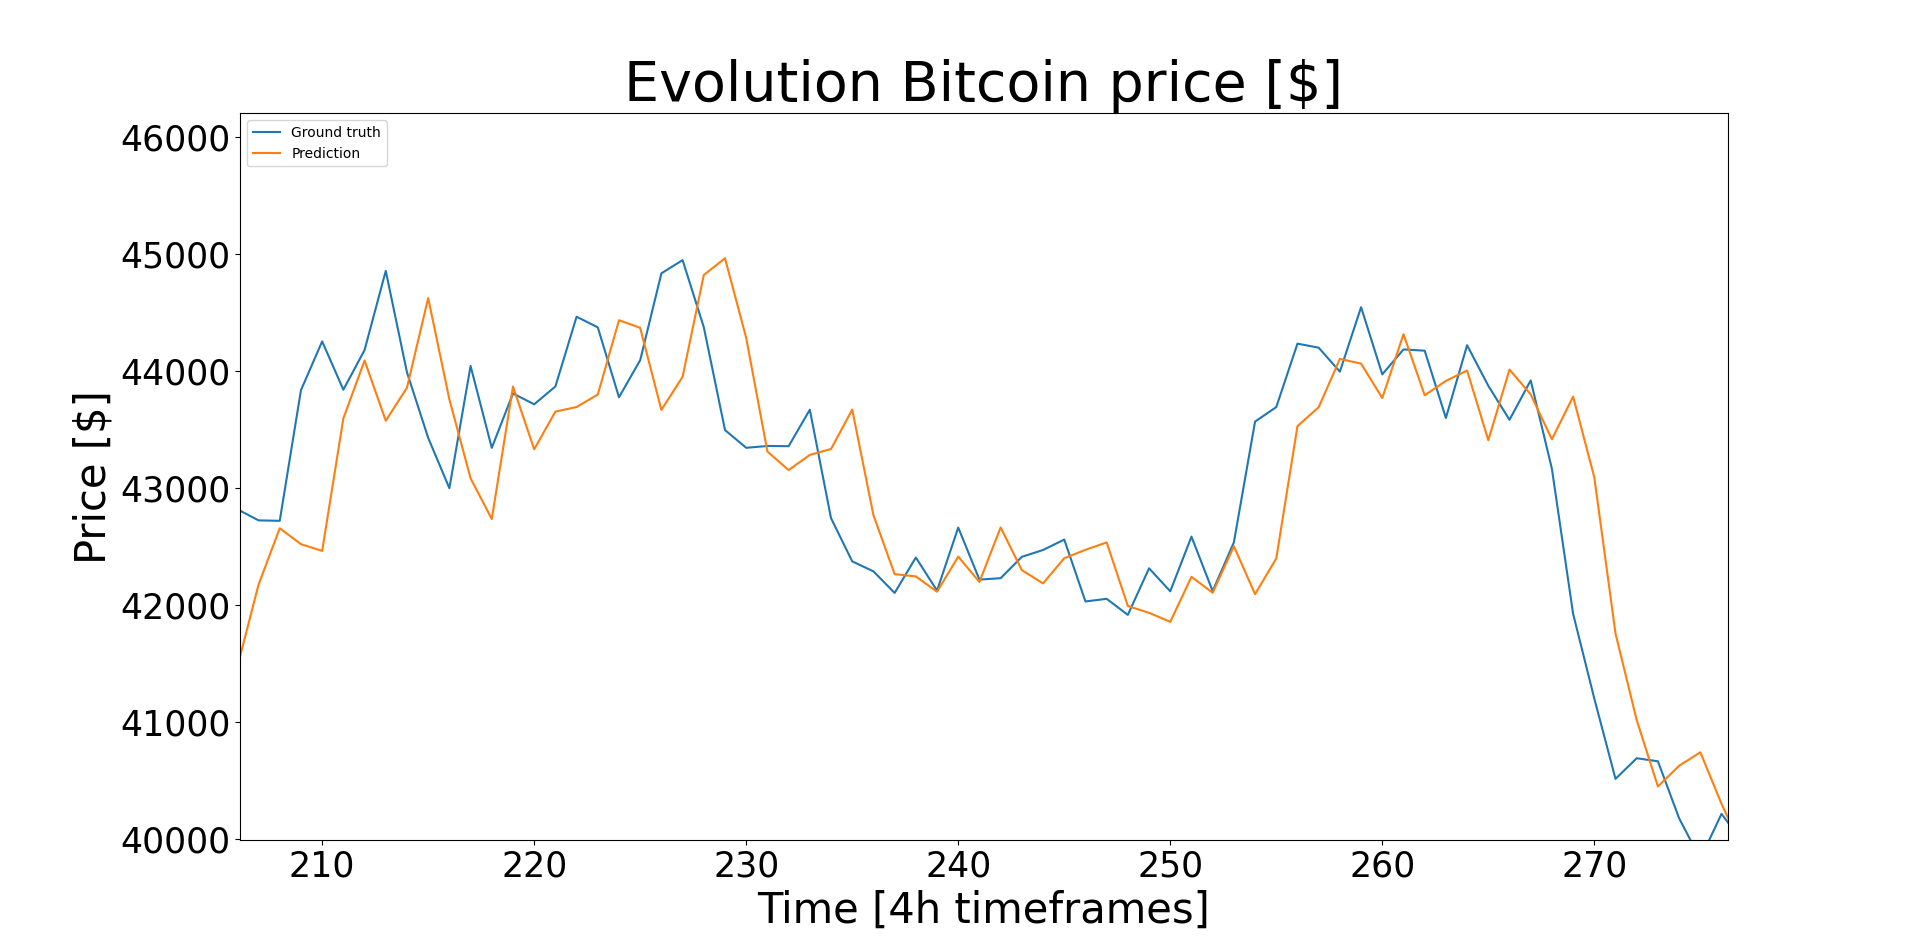
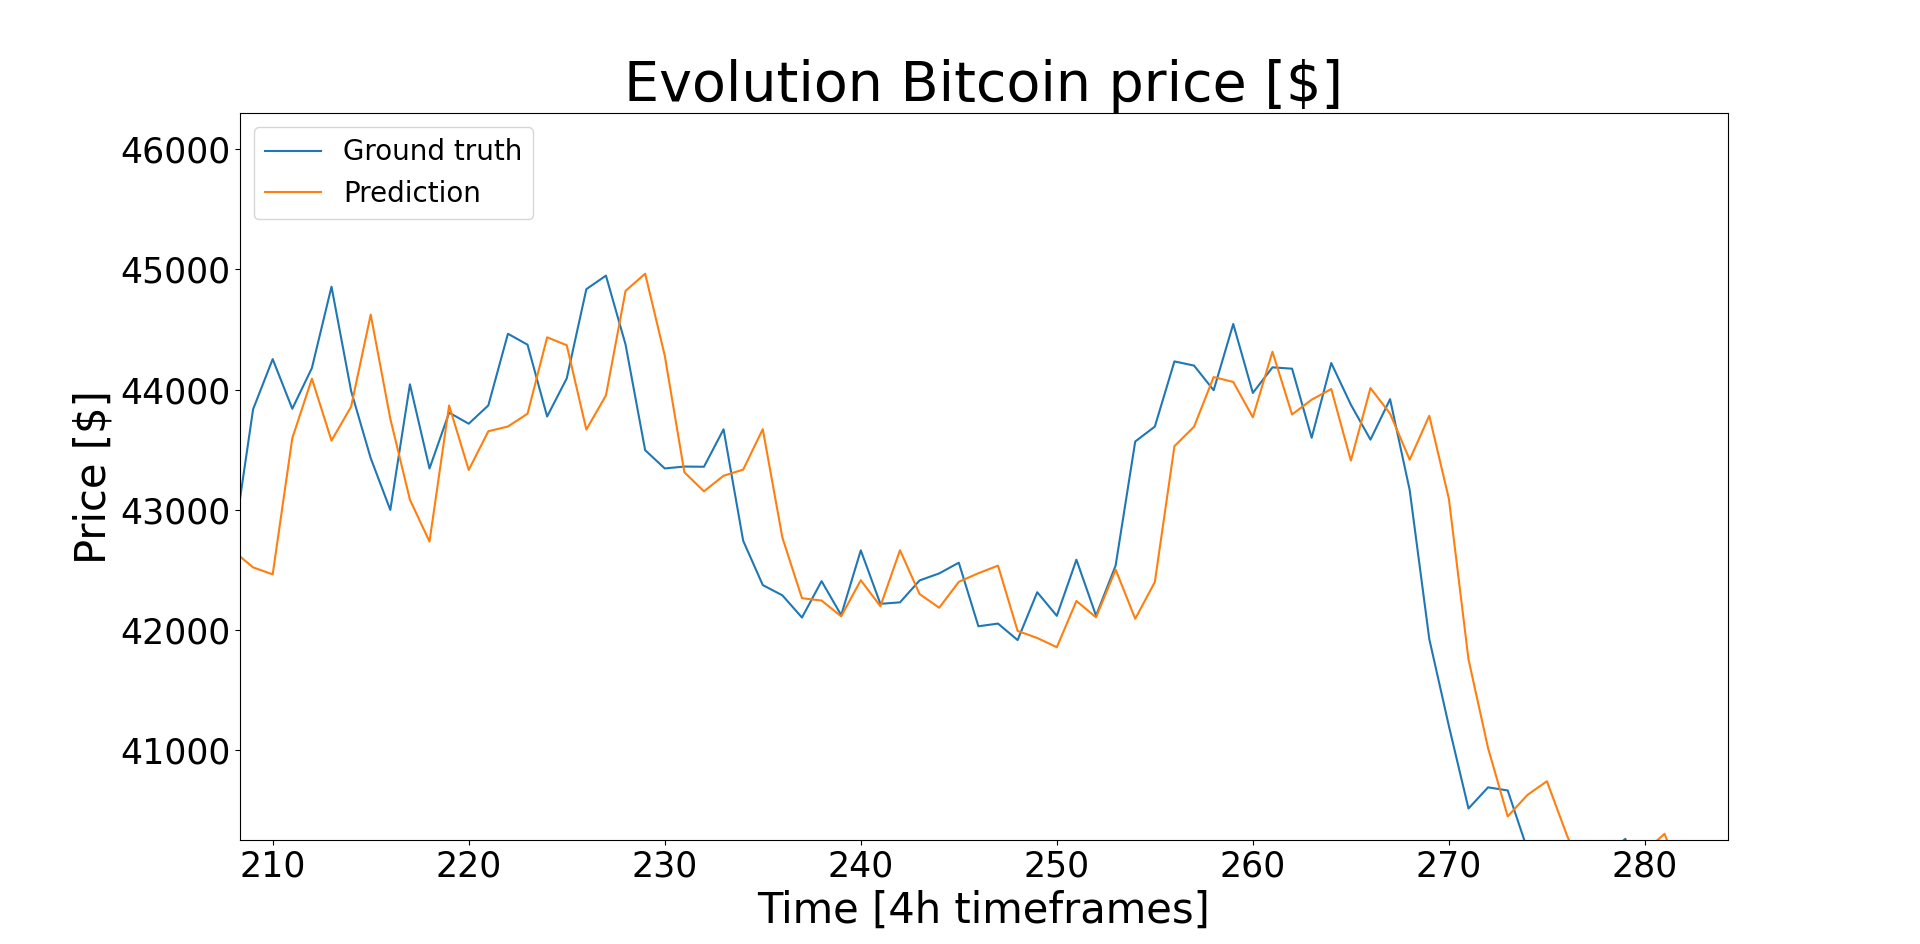
persistence

diff --git a/streamlit.py b/streamlit.py
@@ -67,7 +67,7 @@ def streamlit_template():
                 # 'https://raw.githubusercontent.com/pvillegasmartin/cryptocurrencies/main/Analysis/baseline-return.PNG',
                 # 'Bitcoin returns')],
             , 'Ensemble principals': [(
-                'https://github.com/pvillegasmartin/cryptocurrencies/blob/main/Analysis/Price_forecast/DL/Test_2022_4H_out1_inputsdim4_ldim2_nsteps15.png?raw=true',
+                'https://github.com/pvillegasmartin/cryptocurrencies/blob/main/Analysis/Price_forecast/DL/streamlit_persistence.png?raw=true',
                 'Bitcoin price forecasting (LSTM)')]
             , 'Price difference': [(
                 'https://github.com/pvillegasmartin/cryptocurrencies/blob/main/Analysis/baseline-evolutions-return.png?raw=true',
